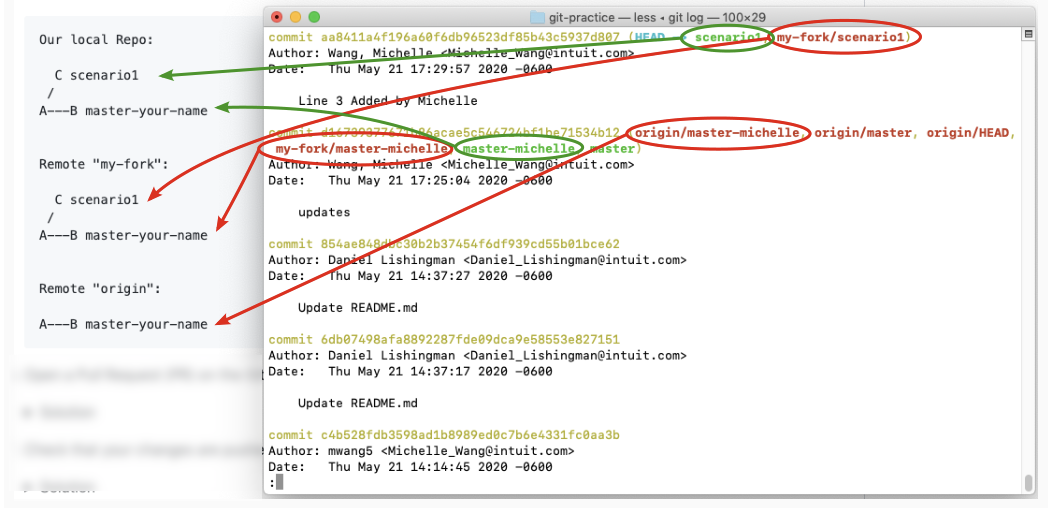
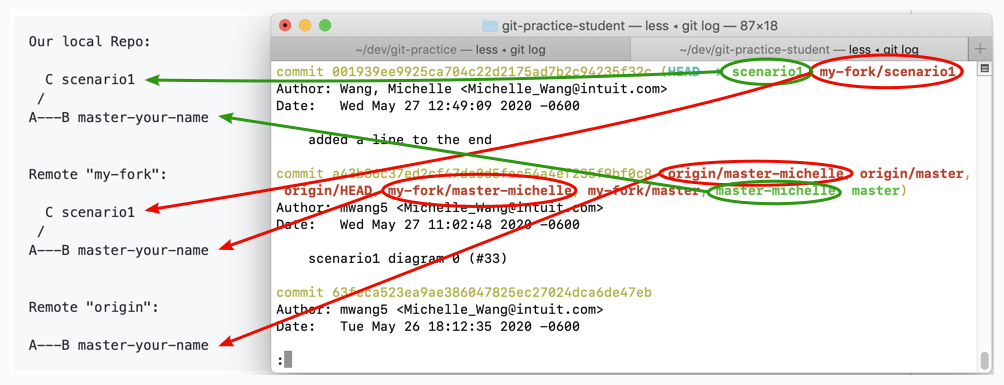
commit diagrams

diff --git a/Scenario_1/readme.md b/Scenario_1/readme.md
@@ -20,6 +20,11 @@ Here is an example of how the commit diagram and commit logs can be matched:
 ![git log diagram initial](img/0_labelled.png)
     <!-- (This is the link to edit the diagram: https://app.mural.co/t/intuitqboteam/m/intuitqboteam/1590527283623/8aeb97f63a333034b7438edff848cda281bbf56c) -->
 
+Sometimes, a certain branch will not appear in commit logs. To ensure they appear, you can add the names of those branches as arguments to the `git log` commands.
+```console
+$ git log scenario1 master-your-name origin/master-your-name
+```
+
 # Instructions
 1. On your local machine, create a new branch called `scenario1`.
     <details>
@@ -148,7 +153,7 @@ Here is an example of how the commit diagram and commit logs can be matched:
     1. Click "New pull request" (beside "Branch: master-your-name"). Notice this action automatically takes you to the `git-practice` repo in Albertasaurus, as this is where you are trying to merge your code change to. 
     1. Scroll down to see all the file change(s) you have made, and ensure they are correct. Ensure the "head repository" is your your fork, the "base repository" is Albertasaurus/git-practice, and that the compared and base branches are both `master-your-name`.
 
-        ![Git PR](img/6_PR.png) <!-- (This is the link to edit the diagram: https://app.mural.co/invitation/mural/intuitqboteam/1590103154632?sender=michellewang8970&key=5e30c6ac-84f7-4201-a7a7-0ba49ee9366a) -->
+        ![Git PR](img/6_PR.png) <!-- (This is the link to edit the diagram: https://app.mural.co/t/intuitqboteam/m/intuitqboteam/1590774642826/ba1c07bcc7ddbb787ce7e6e27de3e02ac7fd2c23) -->
 
     1. Click the green "Create pull request" button. Add a descriptive title and description illustrating the nature of your code change if you wish. Once all checks have passed, choose "Squash and merge" from the dropdown beside "Merge pull request", then "Confirm merge". 
 
@@ -162,13 +167,12 @@ Here is an example of how the commit diagram and commit logs can be matched:
     Update your local repo, and its pointers. 
     ``` console
     $ git checkout master-<your-name>
-    $ git pull origin/master-<your-name> 
+    $ git pull origin master-<your-name> 
     ```
 
     Check your commit logs, and ensure they match the commit diagram.
     ```console
-    # ensure origin/master-<your-name> is displayed
-    $ git log origin/master-<your-name>
+    $ git log 
     ```
     </details>
 
